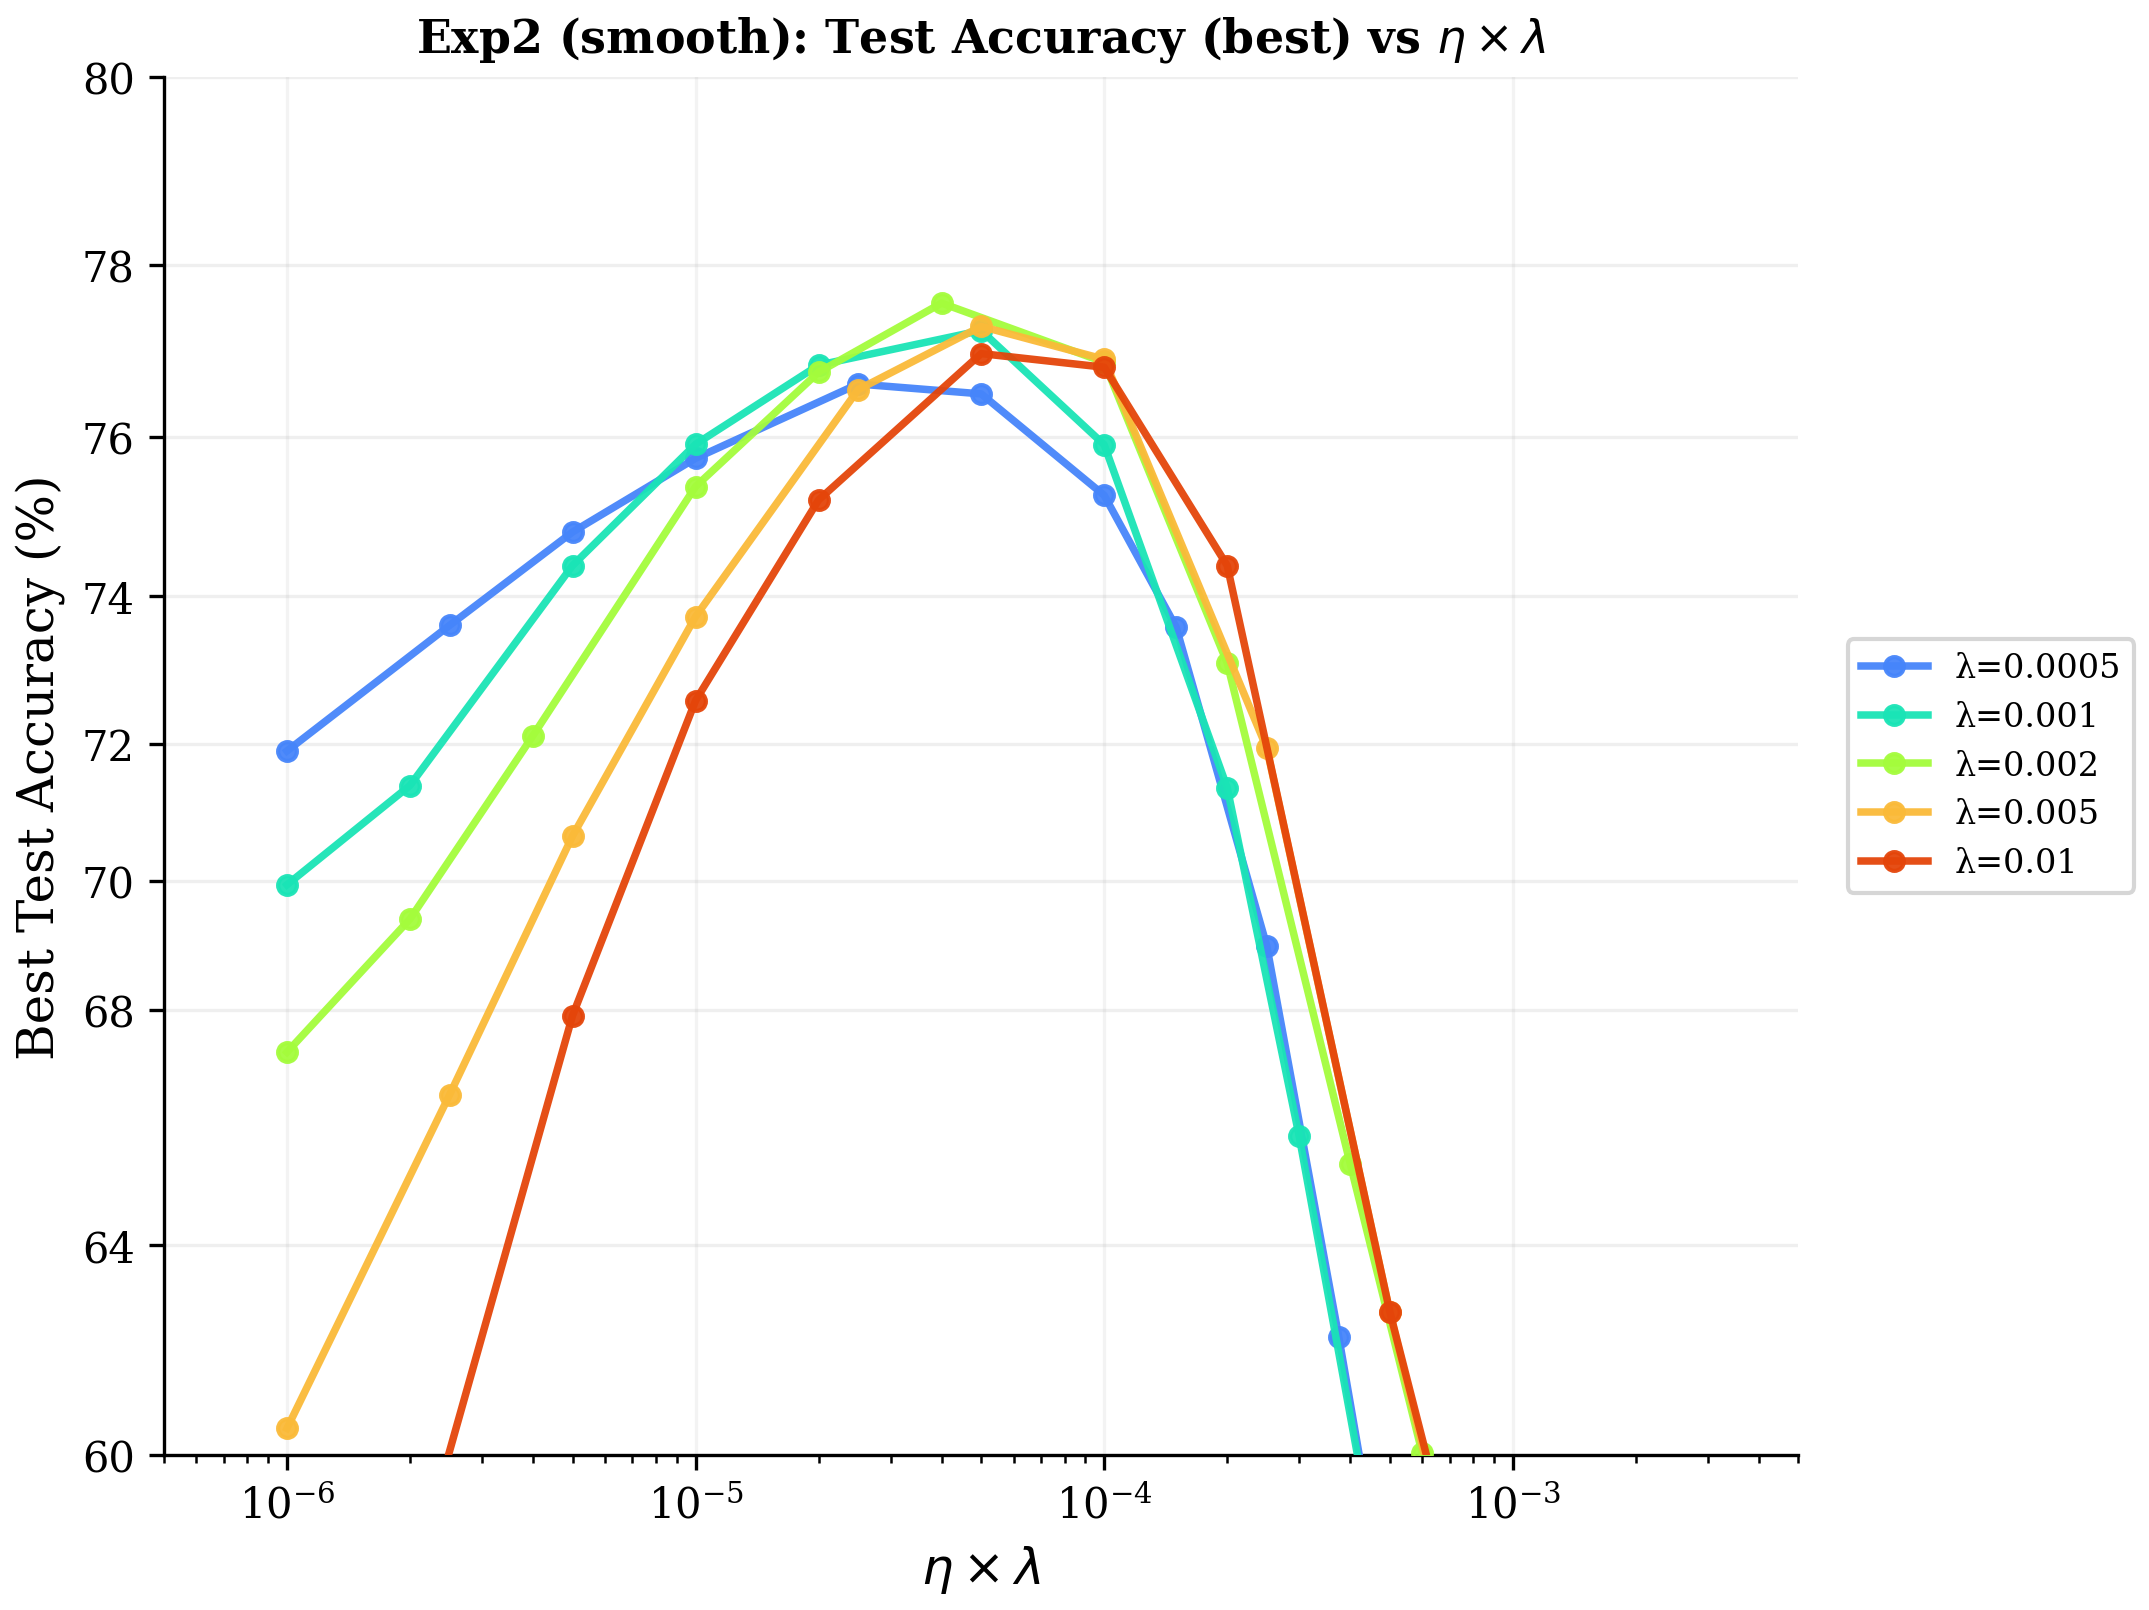
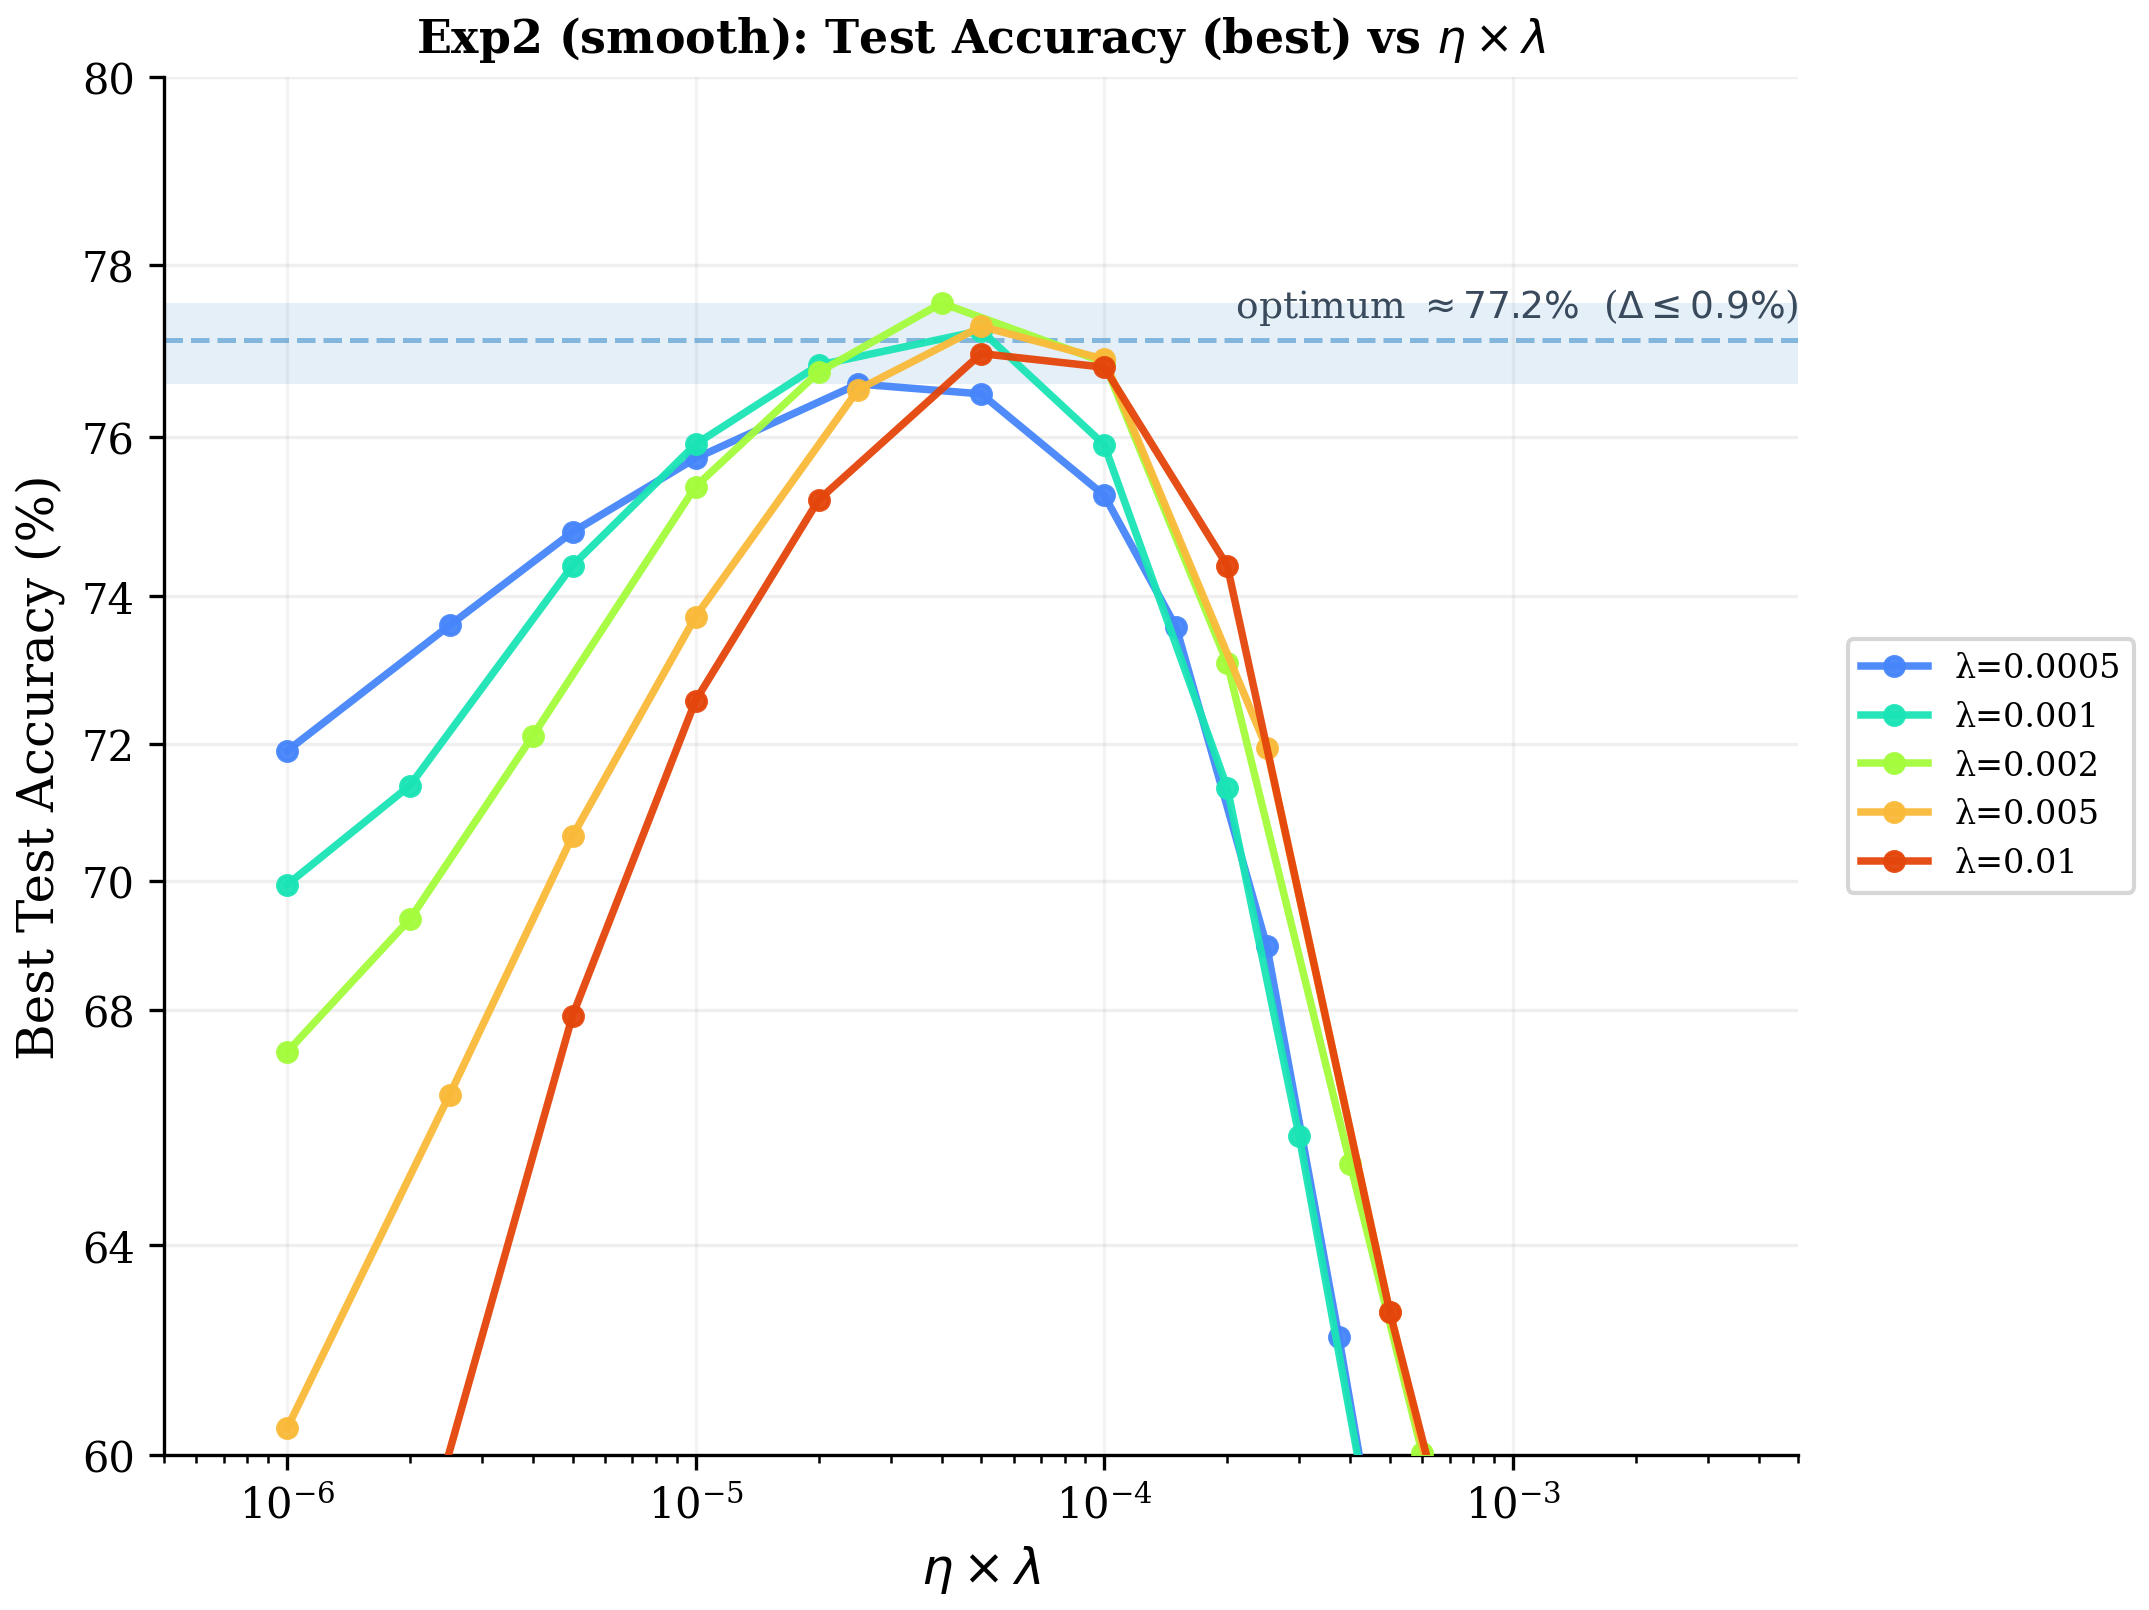
rebuttal: horizontal const-optimum band on smoothed best-acc plot
The vertical "comet/ponytail" envelope didn't read as "optimum
approximately constant" — it visualised spread, not the level.
Replace with a horizontal band:

  - shaded between min_peak and max_peak across the 5 lambda curves
    (at Gaussian-smoothed values),
  - dashed line at the mean,
  - inline annotation "optimum ~ X%, Delta <= Y%".

All five peaks visibly tangent to the band, which is exactly the
"eta*lambda controls a level-set" rhetoric we want.

show_envelope is now off by default; the new show_const_band /
const_band_color / const_band_alpha kwargs control the band.

Changed region(s): [[0.0624, 0.1863, 0.8418, 0.2484]]

diff --git a/rebuttal/generate_figures.py b/rebuttal/generate_figures.py
@@ -467,7 +467,15 @@ def plot_exp2_focused_smooth(ext_dfs,
                              band_style='none',
                              band_color='#5da0d3',
                              show_stars=False,
-                             smooth_sigma=0.30):
+                             smooth_sigma=0.30,
+                             show_envelope=False,
+                             envelope_color='#7a808a',
+                             envelope_alpha=0.28,
+                             envelope_smooth_sigma=0.18,
+                             show_const_band=True,
+                             const_band_color='#5da0d3',
+                             const_band_alpha=0.16,
+                             const_label_offset=0.15):
     """Smooth, "publication-style" version of the best-acc focused plot.
 
     - Drops the requested λ values (default: 0.05, 0.0001).
@@ -532,6 +540,7 @@ def plot_exp2_focused_smooth(ext_dfs,
 
     # Per-curve: smooth the y-values themselves (Gaussian on log10(η×λ)),
     # keep original x positions, connect with straight segments.
+    smoothed_series = []  # list of (log_x array, y_smooth array) for envelope
     for wd in wds:
         sub = (agg[np.isclose(agg['wd'], wd)]
                .sort_values('eta_lambda')
@@ -551,6 +560,7 @@ def plot_exp2_focused_smooth(ext_dfs,
         diff = log_x[:, None] - log_x[None, :]
         w = np.exp(-(diff ** 2) / (2 * smooth_sigma ** 2))
         y_smooth = (w * y[None, :]).sum(axis=1) / w.sum(axis=1)
+        smoothed_series.append((log_x, y_smooth))
         ax.plot(np.power(10.0, log_x), y_smooth,
                 marker='o', linewidth=1.8, markersize=4.5,
                 color=color, alpha=0.95,
@@ -561,6 +571,63 @@ def plot_exp2_focused_smooth(ext_dfs,
                        [float(y_smooth[i_best])],
                        s=110, marker='*', facecolors='white', edgecolors='red',
                        linewidths=1.4, zorder=5)
+
+    # "Comet/ponytail" envelope: upper/lower bound of the smoothed bundle,
+    # interpolated onto a common log-x grid. The envelope naturally narrows
+    # near the per-curve maxima cluster (~5e-5) because the curves collapse
+    # there, producing the strike-towards effect.
+    if show_envelope and len(smoothed_series) >= 2:
+        log_lo_e = min(s[0][0]  for s in smoothed_series)
+        log_hi_e = max(s[0][-1] for s in smoothed_series)
+        grid = np.linspace(log_lo_e, log_hi_e, 240)
+        stack = np.full((len(smoothed_series), len(grid)), np.nan)
+        for i, (lx, ys) in enumerate(smoothed_series):
+            mask = (grid >= lx[0]) & (grid <= lx[-1])
+            stack[i, mask] = np.interp(grid[mask], lx, ys)
+        # require at least 2 curves to define an envelope at any given x.
+        valid_count = np.sum(~np.isnan(stack), axis=0)
+        keep = valid_count >= 2
+        upper = np.nanmax(stack, axis=0)
+        lower = np.nanmin(stack, axis=0)
+        upper[~keep] = np.nan
+        lower[~keep] = np.nan
+        if envelope_smooth_sigma > 0:
+            for arr in (upper, lower):
+                m = ~np.isnan(arr)
+                if m.sum() >= 2:
+                    g_m = grid[m]
+                    diff_g = g_m[:, None] - g_m[None, :]
+                    w_g = np.exp(-(diff_g ** 2) / (2 * envelope_smooth_sigma ** 2))
+                    w_g /= w_g.sum(axis=1, keepdims=True)
+                    arr[m] = w_g @ arr[m]
+        xs_env = np.power(10.0, grid)
+        ax.fill_between(xs_env, lower, upper,
+                        color=envelope_color, alpha=envelope_alpha,
+                        linewidth=0, zorder=1)
+        ax.plot(xs_env, upper, color=envelope_color,
+                linewidth=0.9, alpha=min(1.0, envelope_alpha * 2.2), zorder=2)
+        ax.plot(xs_env, lower, color=envelope_color,
+                linewidth=0.9, alpha=min(1.0, envelope_alpha * 2.2), zorder=2)
+
+    # Horizontal "constant optimum" band: peaks of all curves sit in a narrow
+    # horizontal range. A dashed line at the mean and a shaded band between
+    # min_peak..max_peak make the "optimum ≈ const across λ" claim instantly
+    # readable.
+    if show_const_band and len(smoothed_series) >= 2:
+        peaks = np.array([float(np.max(ys)) for _, ys in smoothed_series])
+        peak_lo, peak_hi = float(peaks.min()), float(peaks.max())
+        peak_mean = float(peaks.mean())
+        ax.axhspan(peak_lo, peak_hi,
+                   color=const_band_color, alpha=const_band_alpha,
+                   linewidth=0, zorder=1)
+        ax.axhline(peak_mean, color=const_band_color,
+                   linestyle='--', linewidth=1.2,
+                   alpha=min(1.0, const_band_alpha * 4.5), zorder=2)
+        ax.text(view_hi, peak_mean + const_label_offset,
+                rf' optimum $\approx {peak_mean:.1f}\%$  '
+                rf'($\Delta \leq {peak_hi - peak_lo:.1f}\%$)',
+                fontsize=9, color='#3a4a5d',
+                ha='right', va='bottom', zorder=3)
 
     ax.set_xscale('log')
     ax.set_xlim(view_lo, view_hi)
